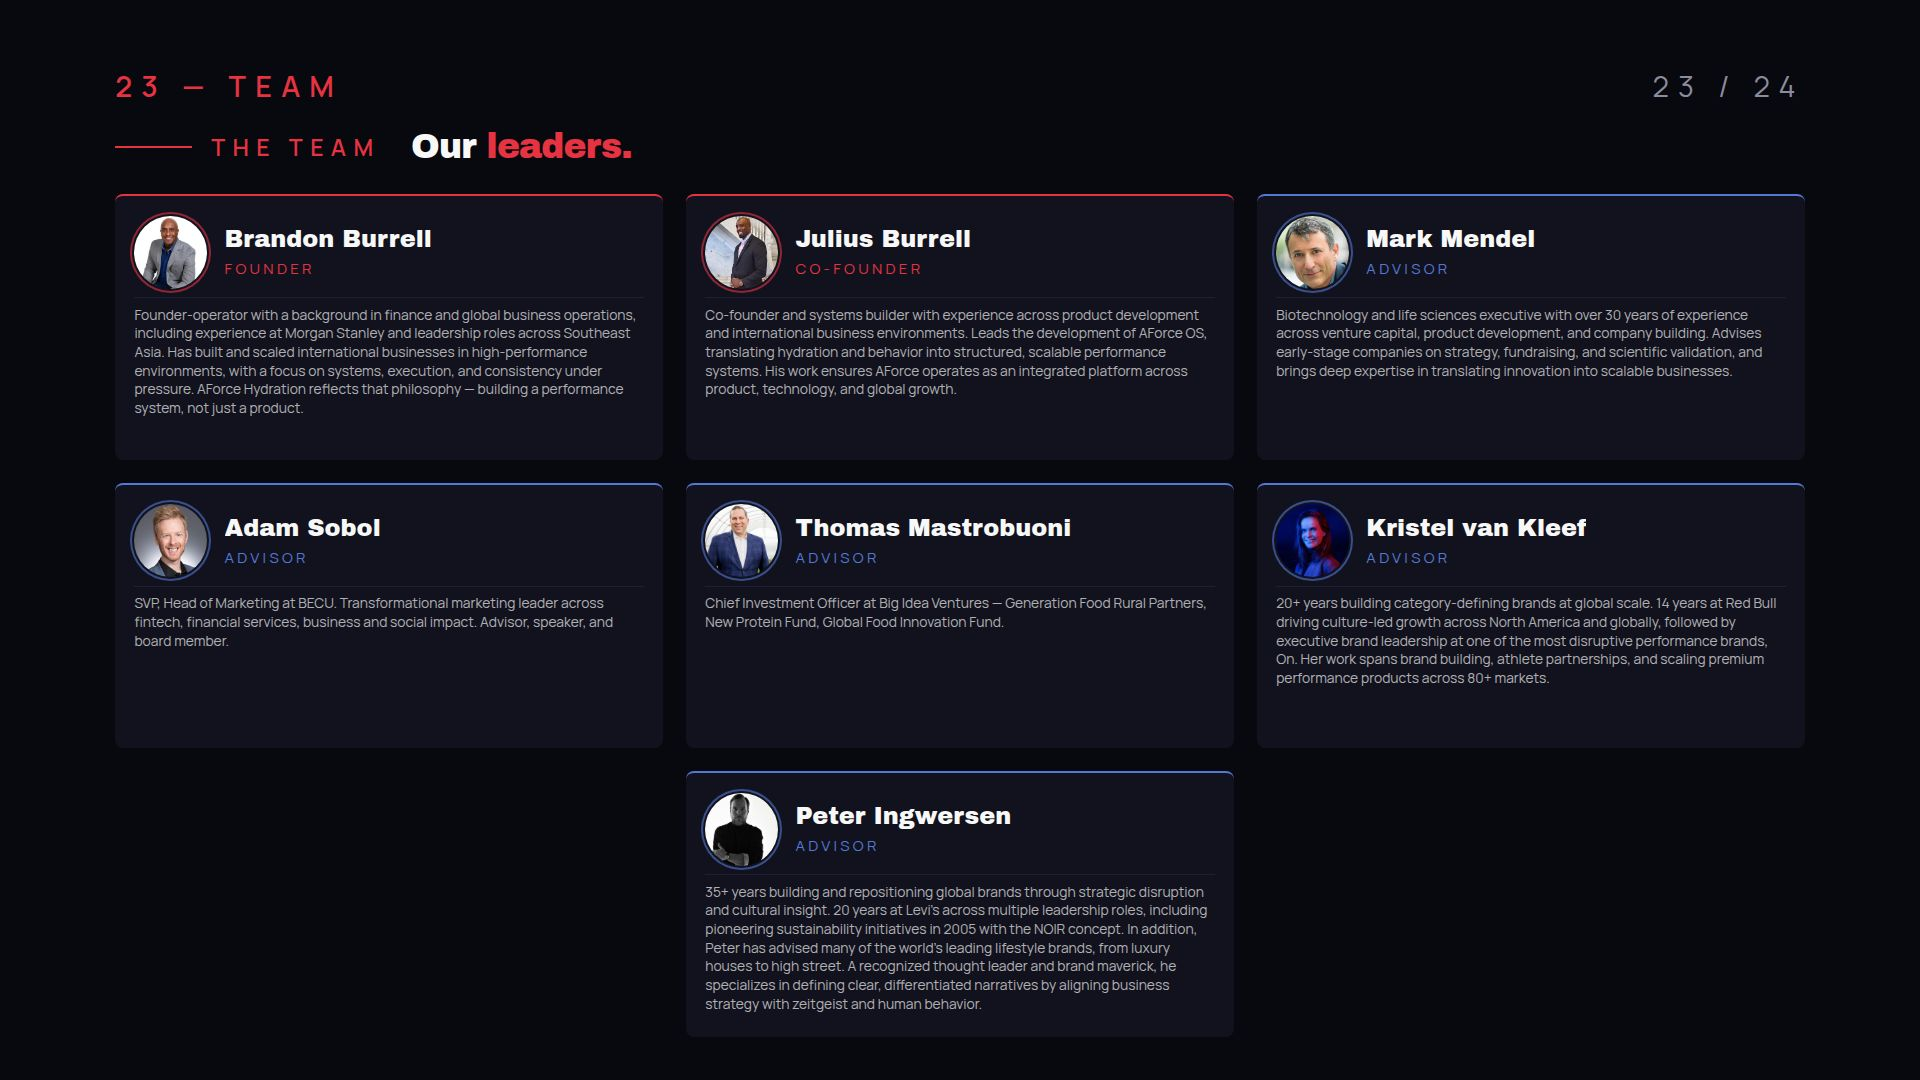
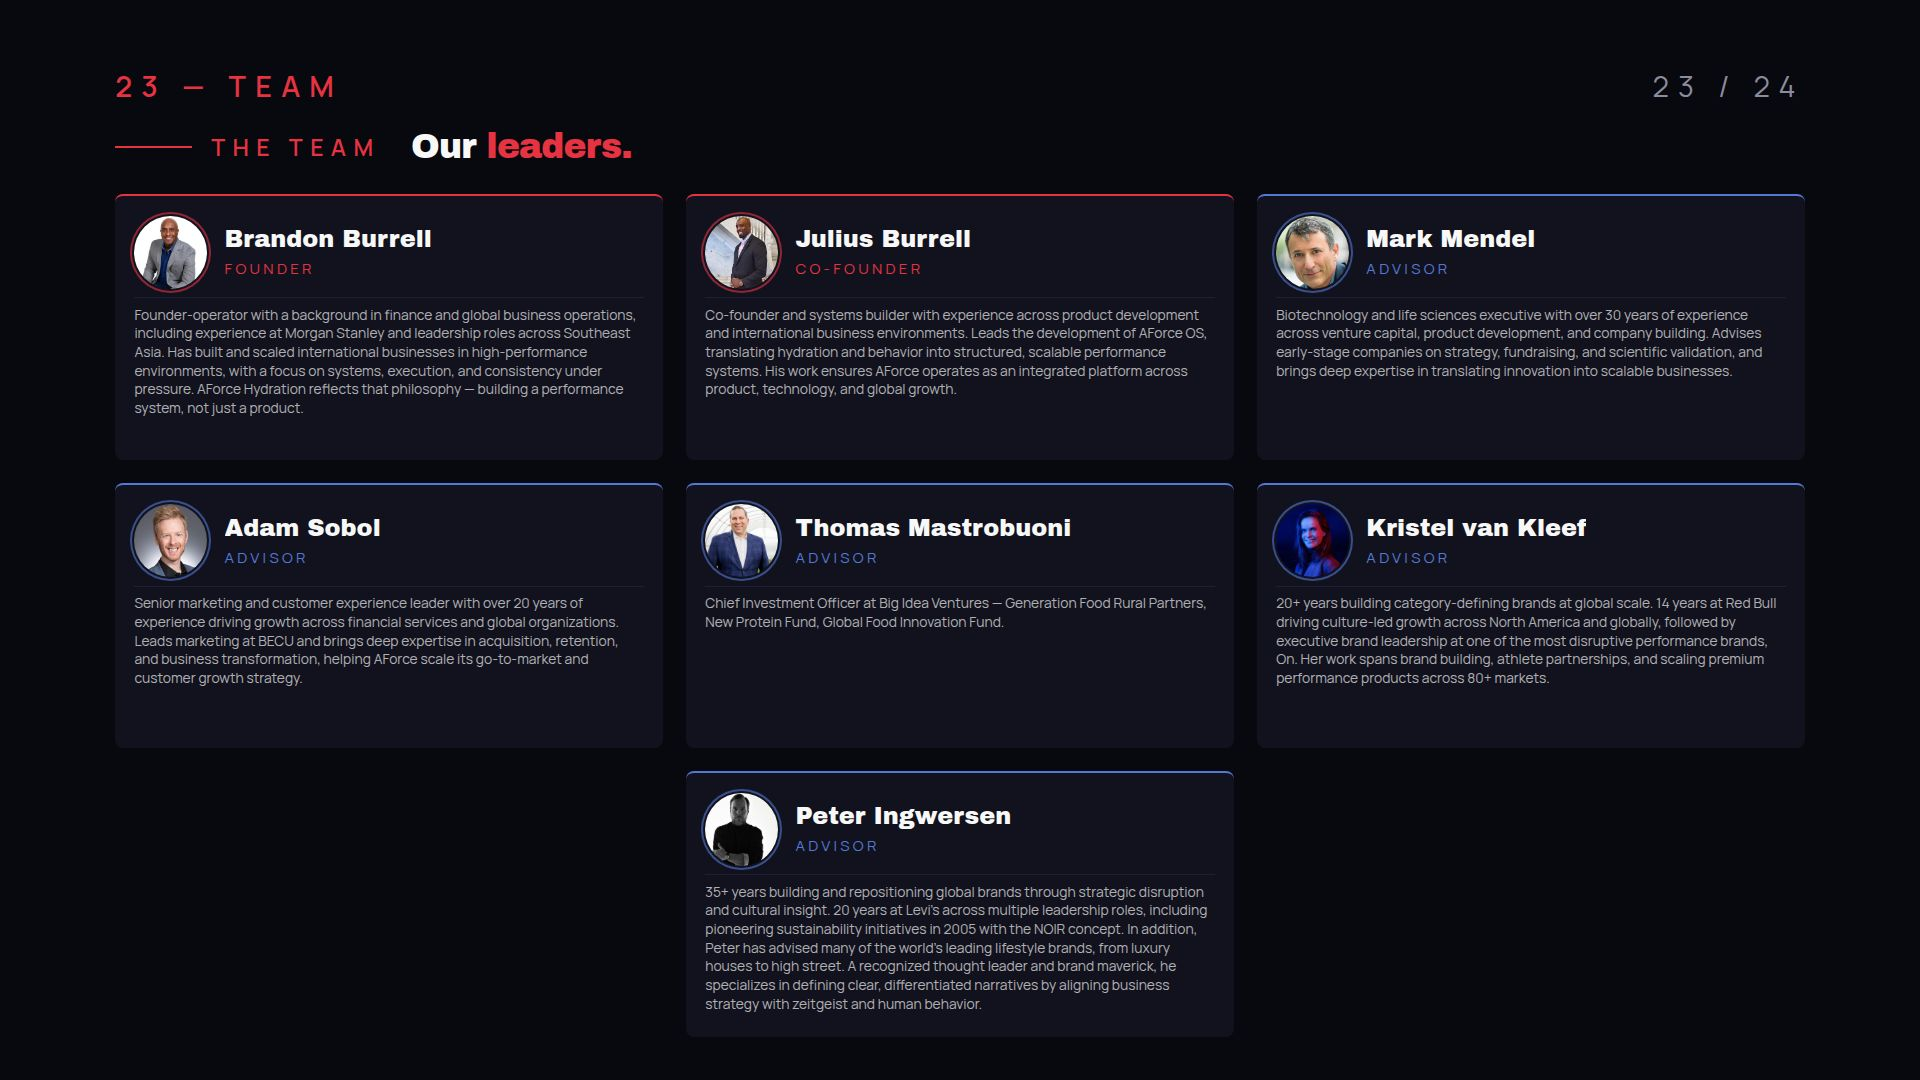
Update Adam's biography to include more detail
Update the bio for Adam Sobol on the Leaders slide with expanded experience and role description.

Replit-Commit-Author: Agent
Replit-Commit-Session-Id: 735f25c4-ed8e-4817-8f79-73dd845c27a6
Replit-Commit-Checkpoint-Type: full_checkpoint
Replit-Commit-Event-Id: 1dbcc177-21c0-478b-8566-b036b23210c9
Replit-Commit-Screenshot-Url: https://storage.googleapis.com/screenshot-production-us-central1/745ad57f-0f0d-4501-8ad0-cf0ad11b0793/735f25c4-ed8e-4817-8f79-73dd845c27a6/fbNSkBt
Replit-Helium-Checkpoint-Created: true

Changed region(s): [[0.0625, 0.55, 0.3125, 0.6417]]

diff --git a/artifacts/aforce-pitch/src/pages/slides/Leaders.tsx b/artifacts/aforce-pitch/src/pages/slides/Leaders.tsx
@@ -43,7 +43,7 @@ export default function Leaders() {
       role: "Advisor",
       color: "blue",
       photo: `${base}adam.jpg`,
-      bio: "SVP, Head of Marketing at BECU. Transformational marketing leader across fintech, financial services, business and social impact. Advisor, speaker, and board member.",
+      bio: "Senior marketing and customer experience leader with over 20 years of experience driving growth across financial services and global organizations. Leads marketing at BECU and brings deep expertise in acquisition, retention, and business transformation, helping AForce scale its go-to-market and customer growth strategy.",
     },
     {
       name: "Thomas Mastrobuoni",
